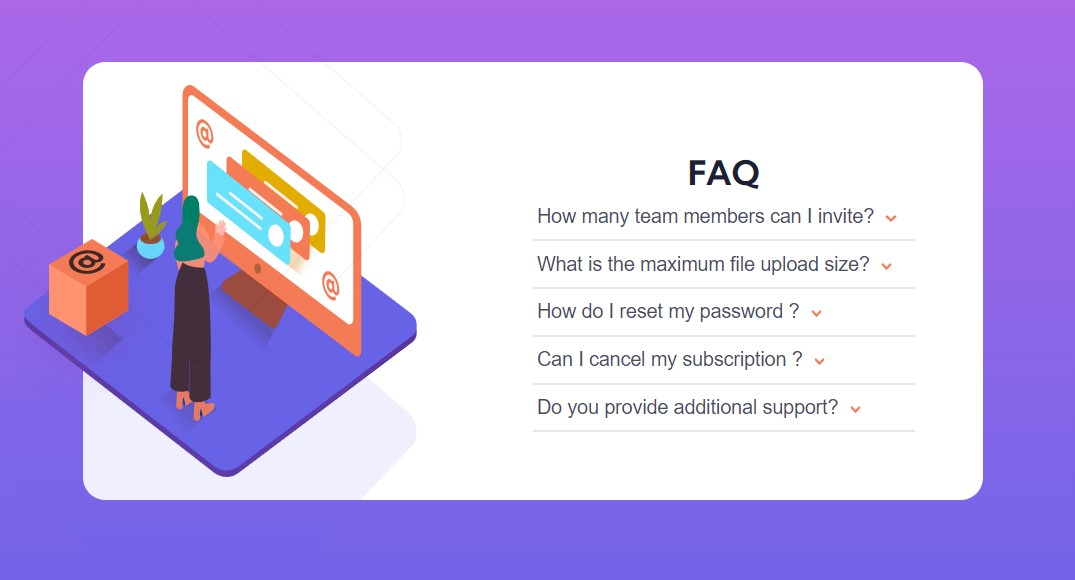
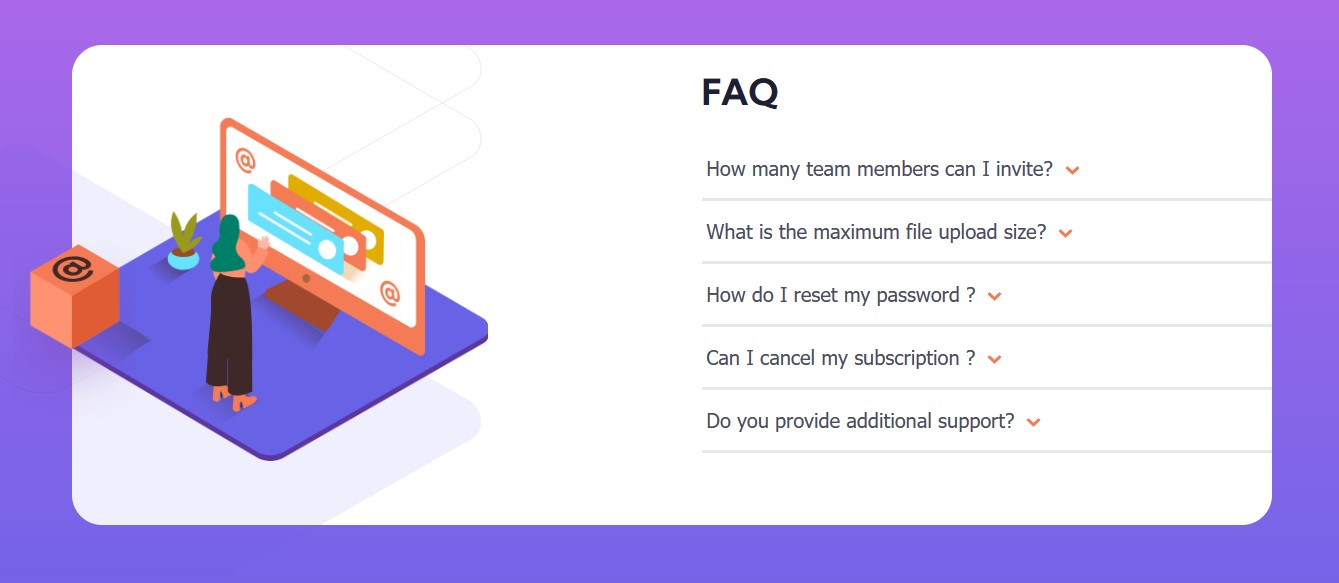
change the structure inside the  Html

diff --git a/style.css b/style.css
@@ -31,7 +31,6 @@ body {
     -webkit-box-pack: justify;
         -ms-flex-pack: justify;
             justify-content: space-between;
-    overflow: hidden;
   }
 }
 
@@ -45,6 +44,28 @@ body {
   position: relative;
 }
 
+.accordion-container .pic .invisible {
+  background-image: url("/images/illustration-box-desktop.svg");
+  display: none;
+}
+
+@media (min-width: 768px) {
+  .accordion-container .pic .invisible {
+    display: block;
+    background-position: center;
+    /* Center the image */
+    background-repeat: no-repeat;
+    /* Do not repeat the image */
+    background-size: cover;
+    position: absolute;
+    top: 41%;
+    left: -39px;
+    height: 122px;
+    width: 82px;
+    z-index: 3;
+  }
+}
+
 .accordion-container .pic .position {
   position: absolute;
   top: -13px;
@@ -53,10 +74,11 @@ body {
 @media (min-width: 768px) {
   .accordion-container .pic .position {
     top: 0;
+    overflow: hidden;
   }
 }
 
-.accordion-container .pic .position .bg-pattern {
+.accordion-container .pic .bg-pattern {
   background: url("/images/bg-pattern-mobile.svg");
   width: 257px;
   height: 110px;
@@ -71,10 +93,10 @@ body {
 }
 
 @media (min-width: 768px) {
-  .accordion-container .pic .position .bg-pattern {
+  .accordion-container .pic .bg-pattern {
     background: url("/images/bg-pattern-desktop.svg");
-    margin-top: -27rem;
-    margin-left: -95px;
+    margin-top: -28rem;
+    margin-left: -53px;
     width: 604px;
     height: 529px;
     background-repeat: no-repeat;
@@ -82,7 +104,7 @@ body {
   }
 }
 
-.accordion-container .pic .position .woman-pic {
+.accordion-container .pic .woman-pic {
   background-image: url("/images/illustration-woman-online-mobile.svg");
   width: 277px;
   height: 200px;
@@ -95,26 +117,26 @@ body {
 }
 
 @media (min-width: 768px) {
-  .accordion-container .pic .position .woman-pic {
+  .accordion-container .pic .woman-pic {
     background-image: url("/images/illustration-woman-online-desktop.svg");
     background-repeat: no-repeat;
     background-size: cover;
-    width: 312px;
-    height: 237px;
-    margin-left: 12rem;
-    margin-top: 10px;
-    z-index: 1;
+    width: 299px;
+    height: 229px;
+    margin-left: 16rem;
+    margin-top: 48px;
+    z-index: 2;
     position: relative;
   }
 }
 
 @media (min-width: 768px) {
-  .accordion-container .accordion-body {
+  .accordion-body {
     max-width: 380px;
   }
 }
 
-.accordion-container .accordion-body h1 {
+.accordion-body h1 {
   text-align: center;
   padding-bottom: 2rem;
   color: #1E1F36;
@@ -123,14 +145,18 @@ body {
 }
 
 @media (min-width: 768px) {
-  .accordion-container .accordion-body h1 {
-    padding: 1rem 0;
+  .accordion-body h1 {
+    padding: 1rem 2;
     margin: 0;
     text-align: left;
   }
 }
 
-.accordion-container .accordion-body .accordion-content .accordion {
+.accordion-body .accordion-content {
+  padding: 0 2rem;
+}
+
+.accordion-body .accordion-content .accordion {
   border: none;
   cursor: pointer;
   padding: .75rem 0.2rem;
@@ -144,36 +170,36 @@ body {
   border-bottom: 2px solid #e7e7e9;
 }
 
-.accordion-container .accordion-body .accordion-content .accordion:hover {
+.accordion-body .accordion-content .accordion:hover {
   color: #F47B56;
 }
 
-.accordion-container .accordion-body .accordion-content .accordion::after {
+.accordion-body .accordion-content .accordion::after {
   content: url("/images/icon-arrow-down.svg");
   margin-left: .5rem;
 }
 
-.accordion-container .accordion-body .accordion-content .accordion.last-item {
+.accordion-body .accordion-content .accordion.last-item {
   margin-bottom: 3rem;
 }
 
-.accordion-container .accordion-body .accordion-content .active {
+.accordion-body .accordion-content .active {
   -webkit-transition: 1s;
   transition: 1s;
   font-weight: 700;
 }
 
-.accordion-container .accordion-body .accordion-content .active::after {
+.accordion-body .accordion-content .active::after {
   content: url("/images/icon-arrow-down.svg");
   -webkit-transform: rotate(180deg);
           transform: rotate(180deg);
 }
 
-.accordion-container .accordion-body .accordion-content .active.last-item {
+.accordion-body .accordion-content .active.last-item {
   margin-bottom: 0;
 }
 
-.accordion-container .accordion-body .accordion-content .panel {
+.accordion-body .accordion-content .panel {
   padding: 1rem .5rem;
   display: none;
   background-color: white;

diff --git a/style.scss b/style.scss
@@ -27,37 +27,44 @@ body{
         margin: auto;
         margin-top: 5rem;
         justify-content: space-between;
-        overflow: hidden;
     }
-
+   
     
     .pic{
         display: flex;
         justify-content: center;
         position: relative;
 
-        // .invisible{
-        //     background-image: url('/images/illustration-box-desktop.svg');
-        //     display: none;
-        //     @media (min-width:768px) {
-        //         display: block;
-        //         position:absolute;
-        //         top: 35%;
-        //         left:-95px;
-        //         height: 150px;
-        //         width: 150px;
-        //         z-index: 2;
+    
+        .invisible{
+            background-image: url('/images/illustration-box-desktop.svg');
+            display: none;
+            @media (min-width:768px) {
+                display: block;
+                background-position: center; /* Center the image */
+                background-repeat: no-repeat; /* Do not repeat the image */
+                background-size: cover;
+                position: absolute;
+                top: 41%;
+                left: -39px;
+                height: 122px;
+                width: 82px;
+                z-index: 3;
                     
-        //         // transform: rotate(0deg);
-        //     }
-        // }
+                // transform: rotate(0deg);
+            }
+        }
 
         .position{
             position: absolute;
             top: -13px;
             @media (min-width:768px) {
                 top: 0;
+                overflow: hidden;
             }
+            }
+
+
             .bg-pattern{
                 //center a "position: absolute" element
                 background: url('/images/bg-pattern-mobile.svg');
@@ -70,8 +77,8 @@ body{
                 margin-left: 1.5rem;
                 @media (min-width:768px) {
                     background: url('/images/bg-pattern-desktop.svg');
-                    margin-top: -27rem;
-                    margin-left: -95px;
+                    margin-top: -28rem;
+                    margin-left: -53px;
                     width: 604px;
                     height: 529px;
                     background-repeat: no-repeat;
@@ -92,15 +99,16 @@ body{
                     background-image: url('/images/illustration-woman-online-desktop.svg');
                     background-repeat: no-repeat;
                     background-size: cover;
-                    width: 312px;
-                    height: 237px;
-                    margin-left: 12rem;
-                    margin-top: 10px;
-                    z-index: 1;
+                    width: 299px;
+                    height: 229px;
+                    margin-left: 16rem;
+                    margin-top: 48px;
+                    z-index: 2;
                     position: relative; // need it for Z-index
                 }
             }
         }
+     
     }
     .accordion-body{
         @media (min-width:768px) {
@@ -116,13 +124,13 @@ body{
             font-size: 1.5rem;
             margin-top: 8rem;
             @media (min-width:768px) {
-                padding: 1rem 0;
+                padding: 1rem 2;
                 margin: 0;
                 text-align: left;
             }
         }
          .accordion-content{
-
+            padding: 0 2rem;
           .accordion{
                 border: none;
                 cursor: pointer;
@@ -173,7 +181,7 @@ body{
         
     }
    
-}
+
 .attribution { 
     margin: 5rem 0;
     font-size: 11px; text-align: center; 

diff --git a/index.html b/index.html
@@ -13,14 +13,12 @@
 
   <section class="accordion-container">
     <section class="pic">
-      <div class="position">
+      <figure class="position">
         <div class="woman-pic"></div>
         <div class="bg-pattern" ></div>
-      </div>
-      <div class="invisible">
-
-    </div>
-  </section>
+      </figure>
+      <div class="invisible"> </div>
+   </section>
  
 
     <!-- ##################
